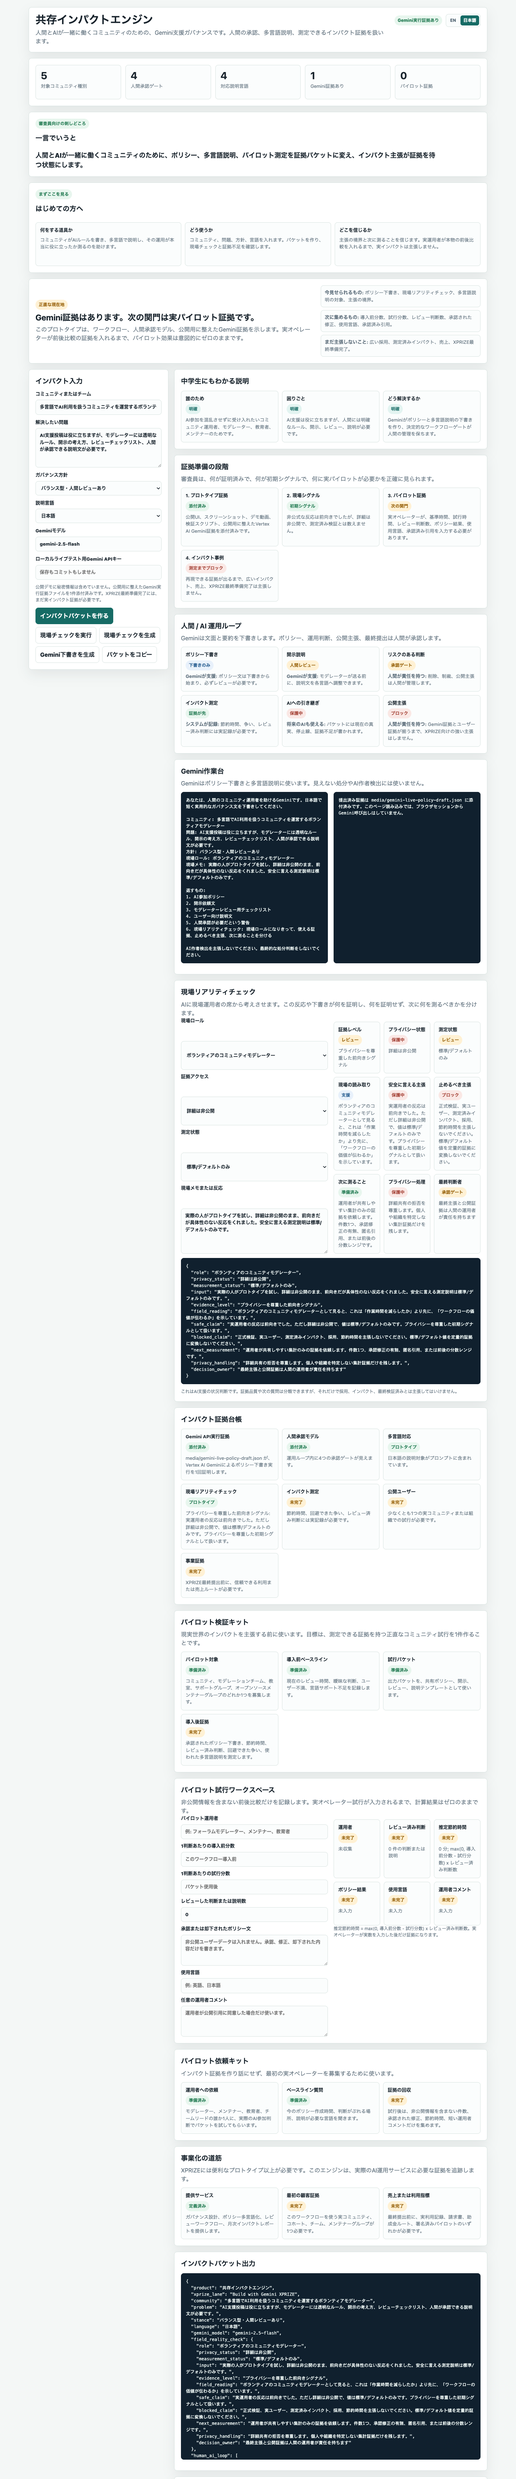
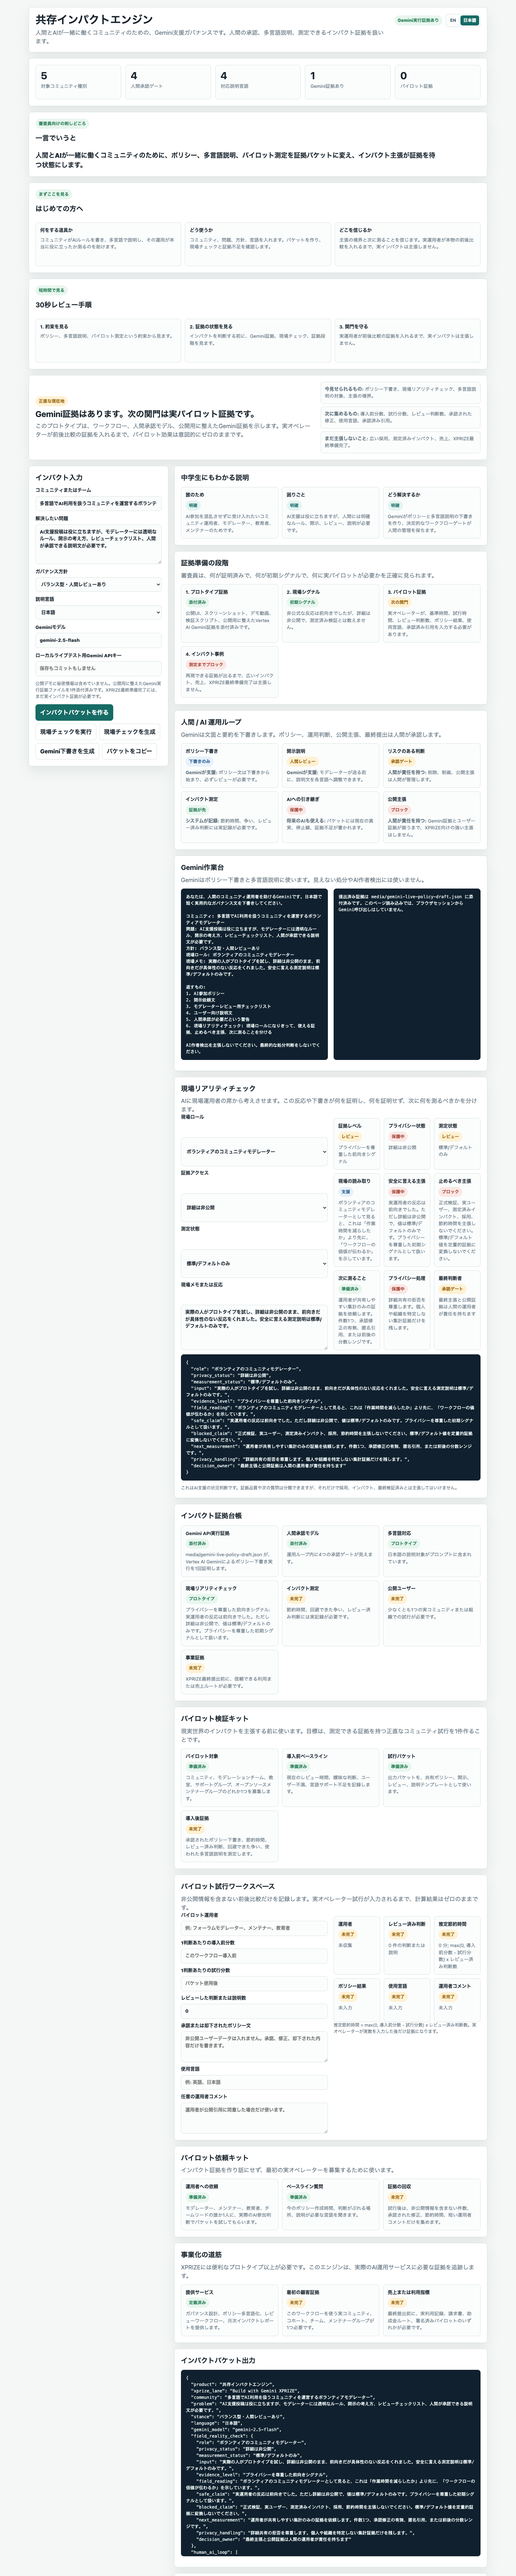
Add 30-second review path

diff --git a/index.html b/index.html
@@ -346,6 +346,16 @@
       </div>
     </section>
 
+    <section class="judge-hook" aria-label="30 second review path">
+      <span class="badge green">review fast</span>
+      <h2>30-Second Review Path</h2>
+      <div class="card-grid">
+        <div class="card"><b>1. Read the promise</b><p>Start with the policy, multilingual explanation, and pilot measurement promise.</p></div>
+        <div class="card"><b>2. Check the proof state</b><p>Look at the Gemini proof, Field Reality Check, and evidence ladder before judging impact.</p></div>
+        <div class="card"><b>3. Respect the gate</b><p>Real impact stays unclaimed until a real operator enters before/after pilot evidence.</p></div>
+      </div>
+    </section>
+
     <section class="hero-strip" aria-label="Current proof state">
       <div>
         <span class="badge amber">Honest current state</span>
@@ -576,6 +586,14 @@
         'Enter the community, problem, policy stance, and language. Build the packet, then review the field check and proof gaps.': 'コミュニティ、問題、方針、言語を入れます。パケットを作り、現場チェックと証拠不足を確認します。',
         'What to trust': 'どこを信じるか',
         'Trust the boundaries and next measurements. Do not claim real impact until a real operator enters real before/after evidence.': '主張の境界と次に測ることを信じます。実運用者が本物の前後比較を入れるまで、実インパクトは主張しません。',
+        '30-Second Review Path': '30秒レビュー手順',
+        'review fast': '短時間で見る',
+        '1. Read the promise': '1. 約束を見る',
+        'Start with the policy, multilingual explanation, and pilot measurement promise.': 'ポリシー、多言語説明、パイロット測定という約束から見ます。',
+        '2. Check the proof state': '2. 証拠の状態を見る',
+        'Look at the Gemini proof, Field Reality Check, and evidence ladder before judging impact.': 'インパクトを判断する前に、Gemini証拠、現場チェック、証拠段階を見ます。',
+        '3. Respect the gate': '3. 関門を守る',
+        'Real impact stays unclaimed until a real operator enters before/after pilot evidence.': '実運用者が前後比較の証拠を入れるまで、実インパクトは主張しません。',
         'Honest current state': '正直な現在地',
         'Gemini proof is attached. Real pilot evidence is the next gate.': 'Gemini証拠はあります。次の関門は実パイロット証拠です。',
         'This prototype already shows the workflow, the human approval model, and one sanitized Gemini proof. It deliberately keeps pilot impact at zero until a real operator enters before/after evidence.': 'このプロトタイプは、ワークフロー、人間承認モデル、公開用に整えたGemini証拠を示します。実オペレーターが前後比較の証拠を入れるまで、パイロット効果は意図的にゼロのままです。',

diff --git a/scripts/verify_japanese_support.py b/scripts/verify_japanese_support.py
@@ -11,8 +11,10 @@ required = [
     (readme_ja, "一言でいうと"),
     (readme_ja, "日本語対応"),
     (readme_ja, "はじめての使い方"),
+    (readme_ja, "30秒レビュー手順"),
     (readme_ja, "画面の見方"),
     (index, "はじめての方へ"),
+    (index, "30秒レビュー手順"),
     (readme_ja, "主張の境界"),
     (index, 'data-lang-button="ja"'),
     (index, "共存インパクトエンジン"),

diff --git a/README.md b/README.md
@@ -26,6 +26,13 @@ What is proven now: the public app, screenshots, demo video draft, no-secret ver
 
 Early feedback: one informal reviewer understood the value quickly and responded positively, while keeping the details private. This is treated as a privacy-respecting positive signal only, not formal validation. Standard/default values are not counted as measured impact. The next milestone is to turn that "this feels useful" reaction into aggregate evidence the operator is comfortable sharing.
 
+## 30-Second Review Path
+
+1. Read the one-sentence pitch to understand the governance and impact loop.
+2. Open the live app and build an impact packet.
+3. Check the Gemini proof, Field Reality Check, evidence ladder, and pilot workspace.
+4. Confirm the boundary: real impact remains unclaimed until a real operator enters before/after pilot evidence.
+
 ## Live Demo
 
 GitHub Pages target:
@@ -155,7 +162,7 @@ Expected current state:
 
 ```text
 impact_verify_ok
-cards=41
+cards=51
 pilot_trial_workspace_ok
 field_reality_check_ok
 coexistence_impact_no_secrets_ok

diff --git a/SUBMISSION_PACKAGE.md b/SUBMISSION_PACKAGE.md
@@ -64,7 +64,7 @@ The next milestone is to convert that reaction into evidence the operator is com
 ```text
 node scripts/verify_impact.mjs
 impact_verify_ok
-cards=41
+cards=51
 pilot_trial_workspace_ok
 field_reality_check_ok
 
